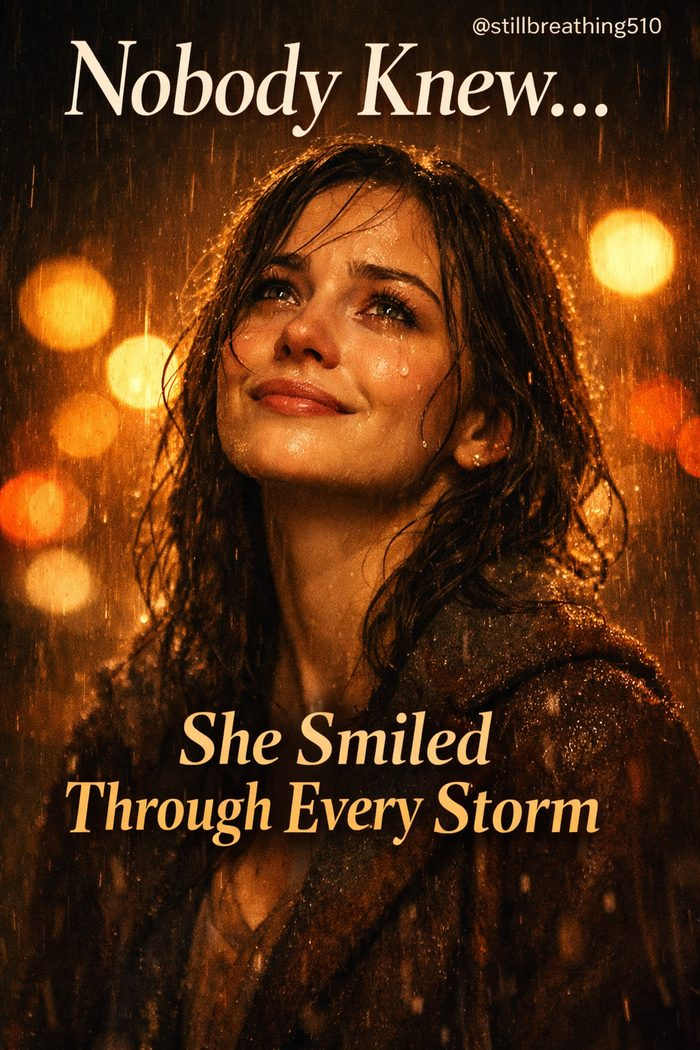
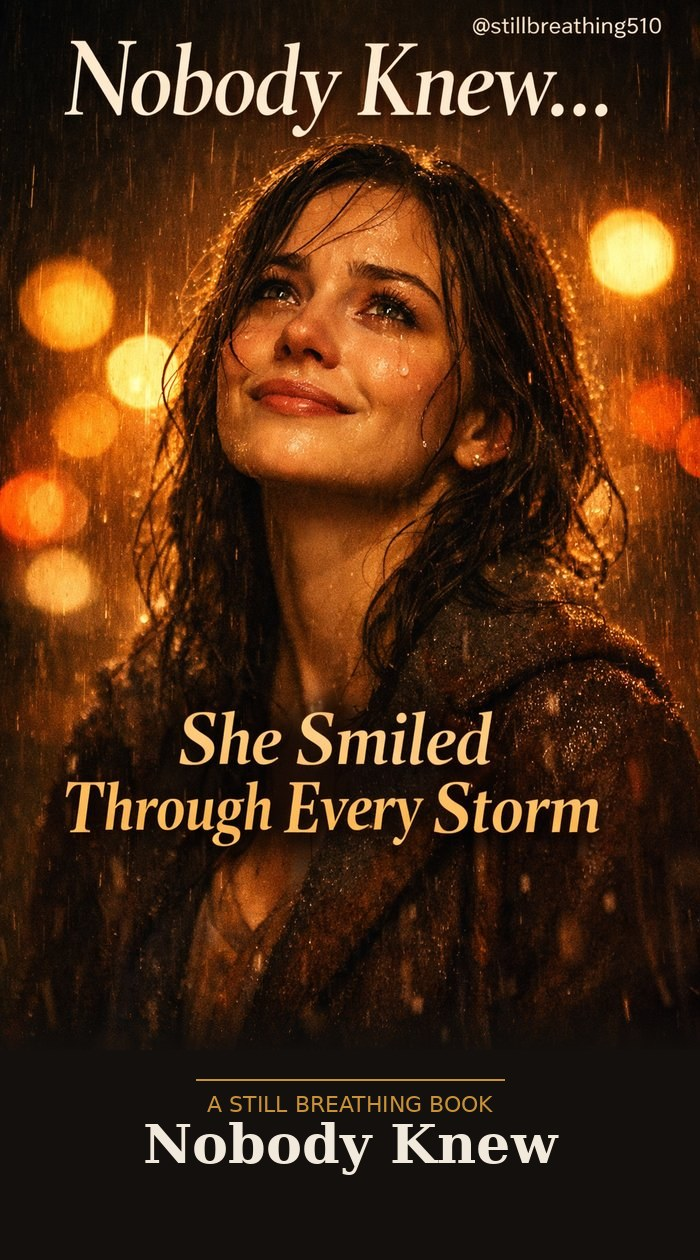
Add files via upload

diff --git a/stopped-waiting-for-permission.html b/stopped-waiting-for-permission.html
@@ -99,6 +99,119 @@
   </div>
 </section>
 
+<section class="chapter" style="border-top:1px solid var(--line);">
+  <div class="wrap">
+    <h2 class="chnum">CHAPTER TWO</h2>
+    <h1 class="chtitle">Nineteen Years of Asking</h1>
+
+    <p>Grace could trace the habit back further than her marriage, if she was honest about it, though it took her most of that year to be honest about it. It started with her mother, in a small sitting room in Mbale, a woman named Harriet who had wanted to open a produce stall at the trading center and had asked her own husband's permission so many times, across so many years, that by the time Grace was old enough to notice, the asking itself had become the whole relationship between them.</p>
+
+    <p>"Your father says the timing isn't right," Harriet would say, folding laundry, not quite meeting Grace's eyes. "Maybe next season." Grace had heard "maybe next season" so many times across her childhood that she'd assumed, the way children assume the shape of their household is the shape of the world, that this was simply how women became business owners — by waiting for a season that a husband would eventually, someday, agree had arrived.</p>
+
+    <p>It never arrived for Harriet. She died two years before Grace's wedding, the produce stall still a drawing in the back of a notebook, and Grace had cried at the funeral for reasons she couldn't fully name at the time — grief, yes, but also something closer to recognition, a fear she wouldn't be able to name for another seventeen years: *I am watching what happens to a woman who waits her whole life for a yes that isn't coming.*</p>
+
+    <p>The church had reinforced it, gently, the way water reinforces a riverbed — not through cruelty, but through a thousand small sermons about submission and patience that Grace had absorbed as instruction rather than one interpretation among several. *Trust your husband's leadership,* Pastor Okello liked to say. *A wife who waits on God's timing through her husband is a wife who will be blessed in due season.* Grace had wanted, badly, to be the kind of woman that sentence described. She had not stopped to ask whether waiting and submission were actually the same thing, or whether she'd simply found a holy word for a fear she already had.</p>
+
+    <p>Her own marriage had simply continued the pattern with a different man's face attached to it. Musa was not Harriet's husband — he did not forbid, he "considered." He did not refuse, he "wasn't sure the timing was right." The words were softer, more modern, more reasonable-sounding, and that was exactly what made them so much harder to argue with. You cannot accuse a man of oppression for asking sensible questions about the family budget. You can only notice, slowly, painfully, that the sensible questions never seem to arrive at yes.</p>
+
+    <p>Grace mentioned some of this to her sister Faith one evening on the phone, testing the thought out loud for the first time. "I keep asking him," she said. "Like he's the only person whose opinion is the actual answer. Like my own opinion is a first draft that needs his approval before it's real."</p>
+
+    <p>Faith, two years younger and considerably less patient with these things, didn't hesitate. "Grace, when was the last time you started something without asking anyone first?"</p>
+
+    <p>Grace opened her mouth to answer and found, to her genuine surprise, that she didn't have one. Not recently. Not since she was maybe nineteen years old, before Musa, before even some of her mother's caution had fully settled into her bones. Nineteen years old. Nineteen years of asking. The math arrived unbidden and sat there in her chest like a stone she hadn't noticed swallowing.</p>
+
+    <p>"I don't know," she admitted. "I think that might be the actual problem. Not him. Me asking."</p>
+  </div>
+</section>
+
+<section class="chapter" style="border-top:1px solid var(--line);">
+  <div class="wrap">
+    <h2 class="chnum">CHAPTER THREE</h2>
+    <h1 class="chtitle">The First No She Gave Back</h1>
+
+    <p>The chance to practice arrived sooner than Grace expected, and from a direction she hadn't braced for: her mother-in-law, Beatrice, who called on a Wednesday to announce, not ask, that she'd be staying with them for three weeks starting Friday, "to help with the children" during a season when the children very plainly did not need help.</p>
+
+    <p>Grace's whole body knew the old response before her mind caught up to it — the automatic warmth, the automatic yes, the small rehearsed noises of welcome that she'd been making toward this woman for eleven years regardless of what she actually felt. She opened her mouth to make them now.</p>
+
+    <p>What came out instead surprised her as much as it would surprise Beatrice. "Mama, this isn't a good time. I have a lot on with the shop plans, and three weeks of hosting isn't something I can take on right now. Maybe in a couple of months, once things have settled."</p>
+
+    <p>The silence on the other end of the phone lasted long enough that Grace wondered if the call had dropped. "I see," Beatrice said finally, in a voice iced over with the particular offense of a woman unaccustomed to being told no by anyone, let alone her son's wife. "I'll speak to Musa about it."</p>
+
+    <p>She did. Musa came home that evening carrying the conversation like a weight he resented having to deliver. "My mother says you refused her."</p>
+
+    <p>"I did," Grace said, and felt her own pulse in her throat saying it. "Musa, I'm not trying to disrespect your mother. I'm telling you I don't have the capacity for a three-week stay right now, and I don't think that's an unreasonable thing to say."</p>
+
+    <p>"She's my mother, Grace. You don't refuse my mother."</p>
+
+    <p>"I'm not refusing her as a person. I'm setting a limit on what I can host, at this specific time, in my own house." Grace heard herself say "my own house" and understood, with a small shock, that she had never once in eleven years described it that way to him. "That's allowed to be true even if she's your mother."</p>
+
+    <p>They didn't resolve it that night, not cleanly. Musa was quiet in the particular way that meant disapproval he wasn't ready to argue directly, and Grace lay awake replaying the phone call, waiting for the guilt to arrive in its usual crushing volume. It arrived. It just didn't stay as long as she expected, or hit as hard. Underneath it, unfamiliar and a little frightening, was something that felt almost like relief — the specific relief of a muscle unclenching after years of being held tight without her noticing.</p>
+
+    <p>Beatrice did not speak to her for two weeks. Grace found, to her own quiet astonishment, that she survived it.</p>
+  </div>
+</section>
+
+<section class="chapter" style="border-top:1px solid var(--line);">
+  <div class="wrap">
+    <h2 class="chnum">CHAPTER FOUR</h2>
+    <h1 class="chtitle">What Her Mother Never Got To Do</h1>
+
+    <p>It was Faith who found the notebook, going through their late mother's things in the family house that none of the siblings had gotten around to fully clearing. A school exercise book, soft with age, filled front to back in Harriet's careful handwriting — prices, supplier names, a hand-drawn layout of a produce stall complete with where the scale would sit and which corner would catch the morning shade.</p>
+
+    <p>Faith brought it to Grace still dusty from the shelf. "She had the whole thing planned," Faith said, and her voice cracked slightly on it. "Look how detailed this is. She wasn't just dreaming, Grace. She had an actual plan. She just never—"</p>
+
+    <p>"She just never gave herself permission to stop asking," Grace finished, and the sentence landed in her own chest harder than she expected it to.</p>
+
+    <p>She sat with that notebook for a long time that night, tracing her mother's handwriting with one finger, and let herself feel something she'd been circling for months without naming directly: she was not afraid of failing at the tailoring shop. She was afraid of becoming her mother — of dying with a notebook full of a plan nobody ever told her she was allowed to start.</p>
+
+    <p>"I'm not going to let this be a drawing in a book," Grace said out loud, to no one, to the empty room, to her mother's handwriting. "I don't care what season anyone says it is."</p>
+
+    <p>She put the notebook on the shelf in the spare room, next to the sewing machines under their cloth, where she would see it every time she went in to work. Not as a decoration. As a witness.</p>
+  </div>
+</section>
+
+<section class="chapter" style="border-top:1px solid var(--line);">
+  <div class="wrap">
+    <h2 class="chnum">CHAPTER FIVE</h2>
+    <h1 class="chtitle">The Room Full of No's</h1>
+
+    <p>Grace paid the deposit on the shop space with money she no longer hid the source of — savings she'd quietly built for two years, finally spoken about out loud instead of folded into a story about her sister's wedding. Musa did not celebrate this. He also, notably, did not stop her, which Grace understood to be its own kind of answer, arrived at somewhere in the two weeks of Beatrice's silence and everything it had taught both of them.</p>
+
+    <p>The shop itself did not go well at first. This was the part Grace had not adequately prepared herself for — not the fight for permission, but the plain, unglamorous difficulty of the thing itself once permission stopped being the obstacle. Her first month's revenue barely covered the rent. A supplier she'd trusted delivered fabric in the wrong colors and refused a refund. A woman from church who'd promised, warmly, to be her first customer never actually came.</p>
+
+    <p>"Maybe Musa was right," Grace said to Faith one exhausted evening, the shop's lights off, the two of them sitting on overturned fabric bolts in the dark. "Maybe it wasn't the right time."</p>
+
+    <p>"Or maybe," Faith said, "it was never about the timing at all. Maybe some things are just hard, and you were taught to blame the hardness on bad timing so you'd have a reason to stop trying instead of a reason to try differently."</p>
+
+    <p>Grace turned that over for a long time. It didn't fix the wrong-colored fabric or bring back the promised customer. But it did something else, something she needed more than either of those: it let her be discouraged without deciding that discouragement was proof she'd been wrong to start.</p>
+
+    <p>She reordered the fabric from a different supplier. She adjusted her prices. She asked two of the women from her old sewing classes if they wanted part-time work once things picked up, a version of leadership she hadn't planned for and discovered she was better at than she expected. The room stayed full of no's for a while longer. She just stopped treating each one as a verdict on whether she should be there.</p>
+  </div>
+</section>
+
+<section class="chapter" style="border-top:1px solid var(--line);">
+  <div class="wrap">
+    <h2 class="chnum">CHAPTER SIX</h2>
+    <h1 class="chtitle">That Day She Became Her</h1>
+
+    <p>A year after the deposit, Grace's shop had a name painted above the door — Harriet's Corner, after the notebook, after the woman who never got to stand in a room like this one — and enough steady customers that she'd taken on both women from the sewing classes properly, with wages and a schedule instead of favors.</p>
+
+    <p>Her daughter Patricia, twelve years old and still young enough to say exactly what she was thinking, stood in the doorway on opening day watching her mother adjust a dress on a mannequin, and asked the question Grace had been half-expecting and half-dreading for months.</p>
+
+    <p>"Mama, were you scared? Starting this?"</p>
+
+    <p>Grace considered lying, the way a certain kind of mother might, offering her daughter a clean and simple story about courage. She decided against it. "Terrified," she said instead. "I asked your father for permission for three years before I understood that the person I actually needed permission from was myself. And even after I understood that, I was still scared. I just stopped letting the fear be the one who decided."</p>
+
+    <p>Patricia considered this with the particular seriousness of a child filing something away for later use. "So being brave doesn't mean not being scared."</p>
+
+    <p>"No," Grace said. "Being brave means you stop waiting for the fear to leave before you start. It doesn't leave. You just stop needing it to."</p>
+
+    <p>She looked around the shop — the machines that had sat under a cloth for two years, the notebook now framed on the wall instead of hidden in a drawer, her daughter standing in the doorway watching her mother be a whole person instead of a woman waiting for someone else's yes. Grace Namono had spent nineteen years asking permission. It had taken one year of refusing to keep asking to become, finally, on an ordinary Tuesday with paint still drying above the door, the woman her own daughter was now watching to learn what was possible.</p>
+
+    <p>That was the day she became her. Not in a single dramatic moment, but in the accumulation of every small refusal that led here — and in the quiet certainty, standing in her own shop, that she would never again need anyone's permission to become the rest of what she was going to be.</p>
+  </div>
+</section>
+
 <div class="cta">
   <div class="wrap">
     <p>The rest of Grace's story — her mother's buried dream, the first no she ever gave back, and the day she finally became her — is coming, chapter by chapter.</p>

diff --git a/books.html b/books.html
@@ -112,6 +112,46 @@
           <p style="color:var(--muted);font-size:0.9rem;">She smiled through every storm. This is the story of what that smile was actually holding together.</p>
         </div>
       </div>
+      <div class="book-card">
+        <img src="cover-strangers-child.jpg" alt="She Prayed for a Stranger's Child">
+        <div class="bc-body">
+          <h3>She Prayed for a Stranger's Child</h3>
+          <div class="price">Coming soon</div>
+          <p style="color:var(--muted);font-size:0.9rem;">Every morning for twenty years, she prayed for a boy she'd never met. He never knew she existed — until the day God sent him to her door.</p>
+        </div>
+      </div>
+      <div class="book-card">
+        <img src="cover-stopped-coming-gate.jpg" alt="She Stopped Coming to the Gate">
+        <div class="bc-body">
+          <h3>She Stopped Coming to the Gate</h3>
+          <div class="price">Coming soon</div>
+          <p style="color:var(--muted);font-size:0.9rem;">Her daughter called her embarrassing, so she stopped showing up. Three weeks later, the school called — and she ran back to that gate immediately.</p>
+        </div>
+      </div>
+      <div class="book-card">
+        <img src="cover-version-nobody-sees.jpg" alt="The Version of You Nobody Sees">
+        <div class="bc-body">
+          <h3>The Version of You Nobody Sees</h3>
+          <div class="price">Coming soon</div>
+          <p style="color:var(--muted);font-size:0.9rem;">The face everyone knows, and the one that only comes out at 2am, hands folded, when no one else is watching.</p>
+        </div>
+      </div>
+      <div class="book-card">
+        <img src="cover-the-strong-one.jpg" alt="The Strong One">
+        <div class="bc-body">
+          <h3>The Strong One</h3>
+          <div class="price">Coming soon</div>
+          <p style="color:var(--muted);font-size:0.9rem;">She was always the strong one — the one everyone leaned on. Nobody ever thought to ask if she was okay. This is what happens when someone finally does.</p>
+        </div>
+      </div>
+      <div class="book-card">
+        <img src="cover-heaven-felt-silent.jpg" alt="But Heaven Felt Silent">
+        <div class="bc-body">
+          <h3>But Heaven Felt Silent</h3>
+          <div class="price">Coming soon</div>
+          <p style="color:var(--muted);font-size:0.9rem;">He prayed until his knees ached and heard nothing back. This is a story for everyone whose faith has ever survived on silence alone.</p>
+        </div>
+      </div>
     </div>
   </div>
 </section>

diff --git a/connect.html b/connect.html
@@ -77,8 +77,8 @@
 
 <section id="support" class="support">
   <div class="wrap support-inner">
-    <h2>Help this reach further</h2>
-    <p>Every member funds two things: another story getting made, and a step closer to real outreach — counselors, mentors, and people on the ground for those who need more than a video.</p>
+    <h2>Plant a seed in someone who needs it today</h2>
+    <p>Somewhere right now, someone is reading this site who has genuinely run out of hope — and what happens next depends partly on whether this mission can keep reaching them. Every gift here funds one specific thing: getting the next story, the next book, the next prayer in front of one more person who thinks they're the only one going through what they're going through. They're not. Your gift is how they find that out.</p>
   </div>
   <div class="wrap" style="margin-top:20px;">
     <div class="res-card" style="max-width:400px;margin:0 auto;">

diff --git a/about.html b/about.html
@@ -68,6 +68,13 @@
 
 <section style="border-bottom:none;">
   <div class="wrap">
+    <img src="scene-hands-comfort.jpg" alt="A hand reaching to comfort another" style="width:100%;border:1px solid var(--line);margin-bottom:16px;">
+    <p style="text-align:center;color:var(--muted);font-style:italic;font-family:'Lora',serif;">This is what we're building toward — not just stories on a screen, but real hands reaching real people.</p>
+  </div>
+</section>
+
+<section style="border-bottom:none;">
+  <div class="wrap">
     <div class="section-head">
       <h2>What we believe</h2>
     </div>

diff --git a/breathing-room.html b/breathing-room.html
@@ -64,6 +64,12 @@
   </div>
 </section>
 
+<section style="border-bottom:none;padding-bottom:0;">
+  <div class="wrap">
+    <img src="scene-community-well.jpg" alt="A community gathered around a village well" style="width:100%;border:1px solid var(--line);">
+  </div>
+</section>
+
 <section style="border-bottom:none;">
   <div class="wrap">
     <div class="section-head">
